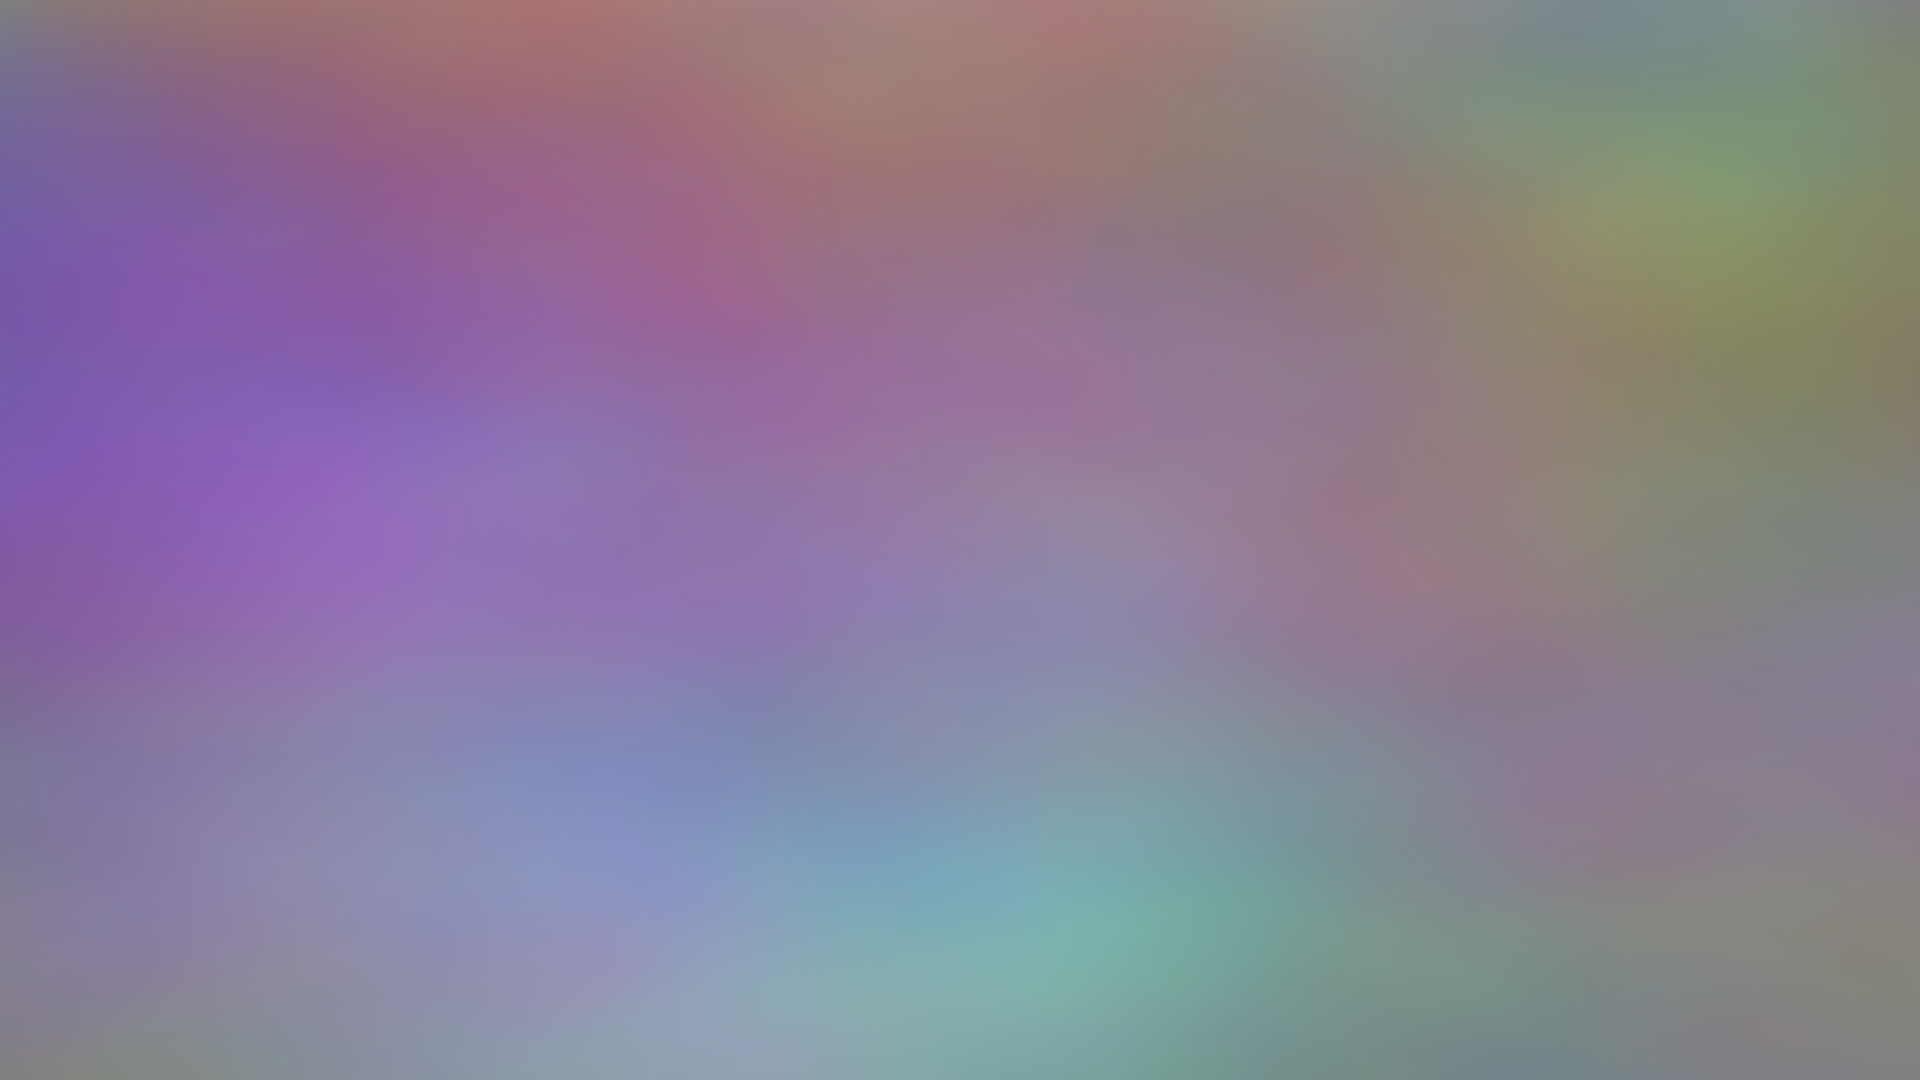
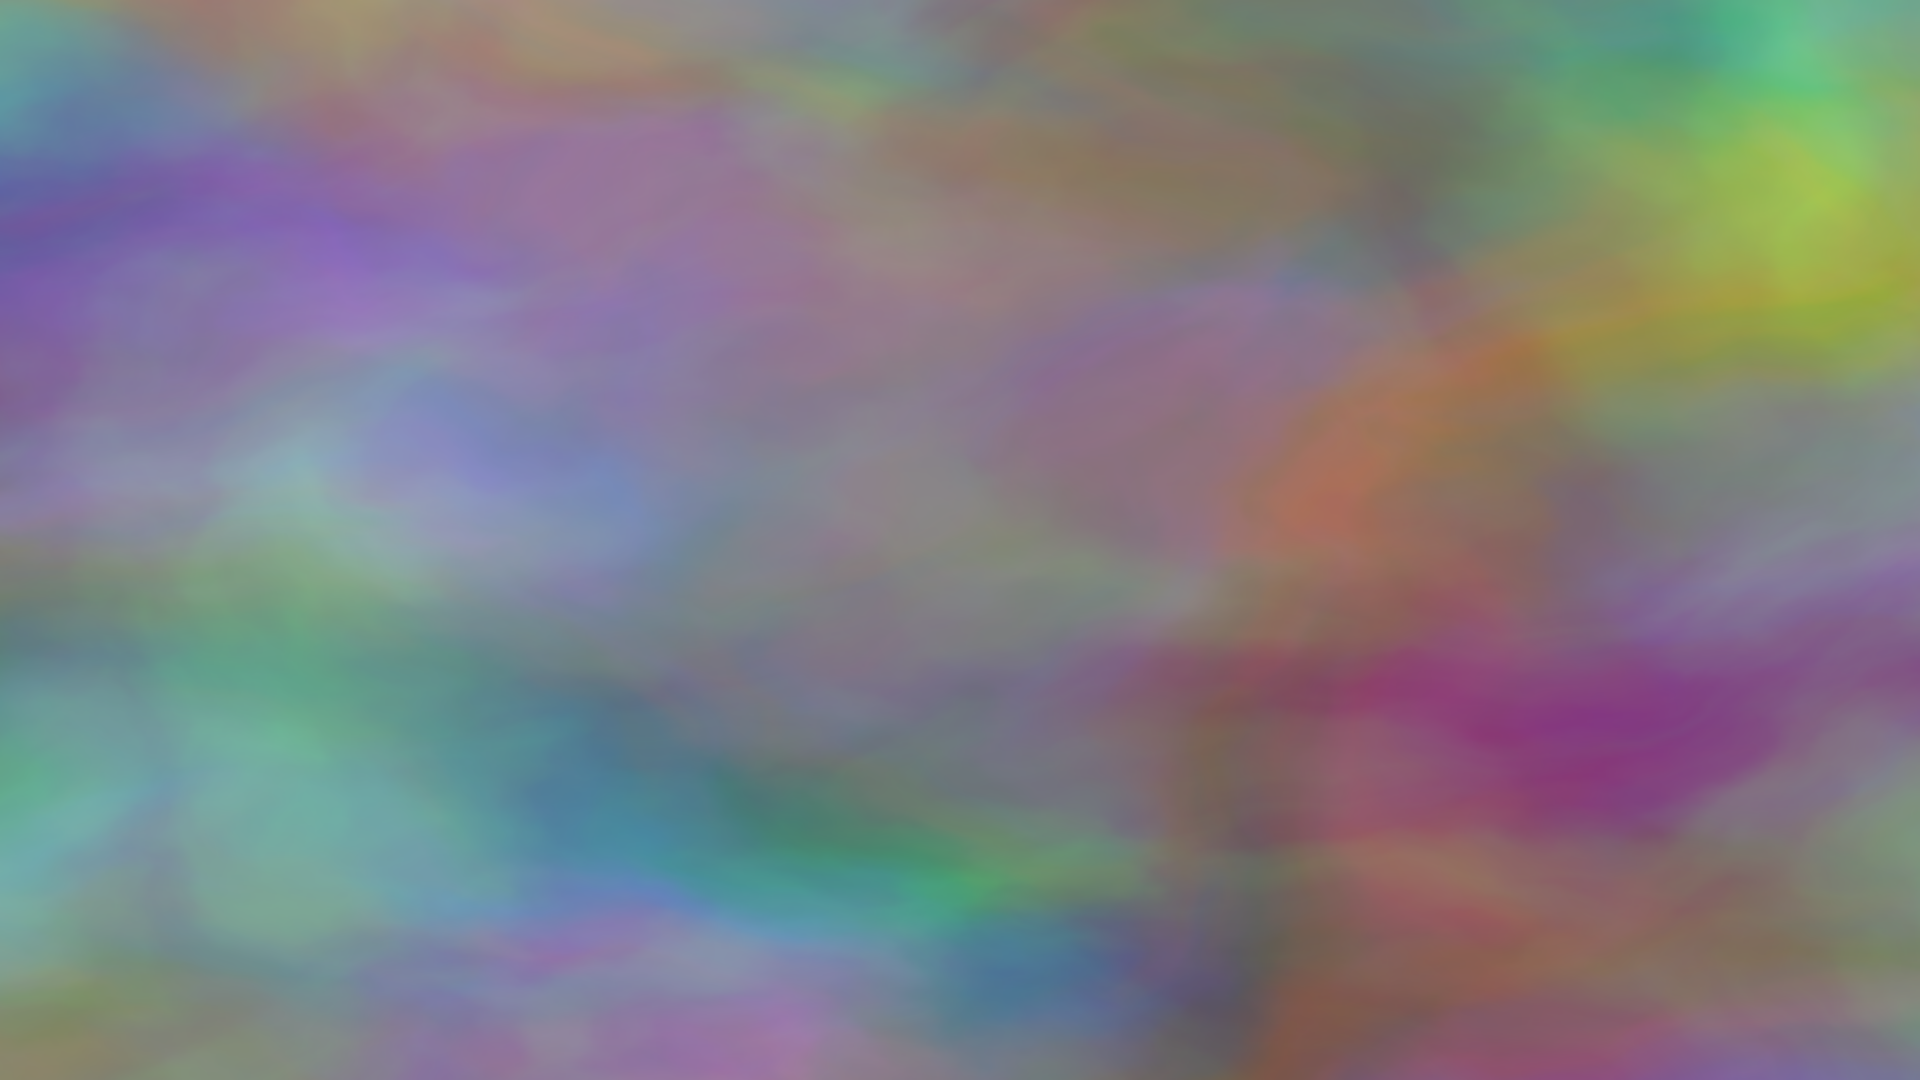
feat: enhance nebula generation with domain warp and adjust shader threshold for improved visual effects

diff --git a/src/components/StarBackground/shaders/nebula.frag.ts b/src/components/StarBackground/shaders/nebula.frag.ts
@@ -19,10 +19,13 @@ uniform float     u_w2;       // O III / layer-2 prominence weight
 varying vec2      v_uv;
 
 // Noise values below THRESHOLD contribute zero alpha (cuts dead space around clouds).
-const float THRESHOLD = 0.1;
+const float THRESHOLD = 0.01;
 
 float nebulaAlpha(float v) {
-  return max(0.0, (v - THRESHOLD) / (1.0 - THRESHOLD));
+  float n = max(0.0, (v - THRESHOLD) / (1.0 - THRESHOLD));
+  // Squared curve: bright dense cores but still preserves enough cloud body.
+  // n³ was too aggressive — crushed the mid-density cloud mass to near-zero.
+  return n * n;
 }
 
 // ── Dark palette — Hubble SHO ─────────────────────────────────────────────────
@@ -111,6 +114,11 @@ void main() {
   vec3 col0 = u_light > 0.5 ? lightL0(v0) : darkS2(v0);
   vec3 col1 = u_light > 0.5 ? lightL1(v1) : darkHa(v1);
   vec3 col2 = u_light > 0.5 ? lightL2(v2) : darkO3(v2);
+
+  // Cross-layer scattering: Hα bleeds a little colour into adjacent emission bands.
+  // Real nebulae have overlapping ionisation zones rather than pure independent layers.
+  col0 += 0.08 * col1 * a1;   // Hα → SII
+  col2 += 0.05 * col1 * a1;   // Hα → OIII
 
   // Additive blend
   vec3 rgb = clamp(col0 * a0 + col1 * a1 + col2 * a2, 0.0, 1.0);

diff --git a/src/components/Layout/Layout.module.scss b/src/components/Layout/Layout.module.scss
@@ -21,6 +21,8 @@
   li,
   blockquote,
   em,
+  textarea,
+  input,
   time {
     backdrop-filter: blur(6px);
     -webkit-backdrop-filter: blur(6px);
